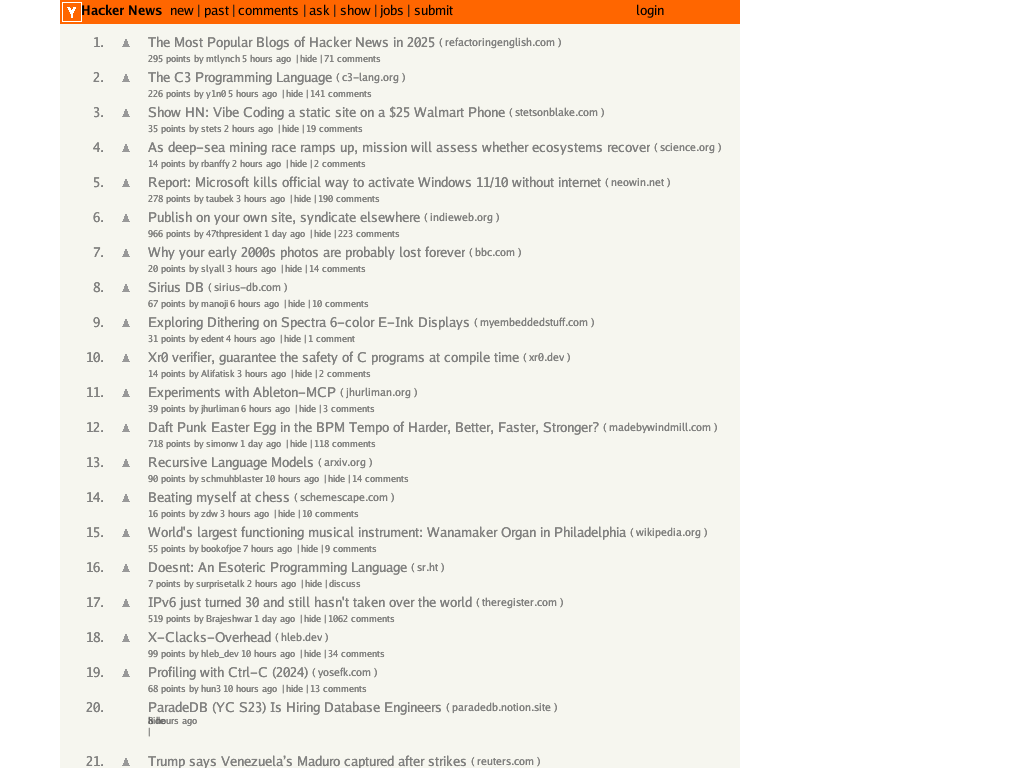
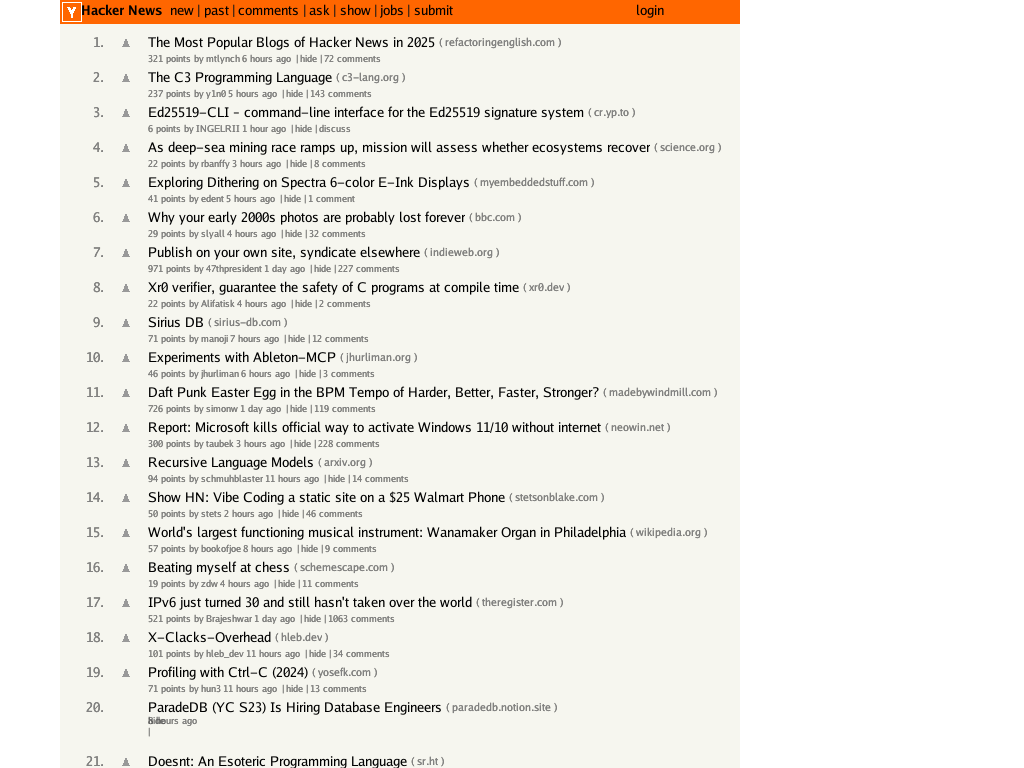
Merge main branch and regenerate HN screenshot with pseudo-class support

diff --git a/css/parser.go b/css/parser.go
@@ -26,9 +26,11 @@ type Selector struct {
 // SimpleSelector represents a simple selector.
 // CSS 2.1 §5.2 Selector syntax
 type SimpleSelector struct {
-	TagName string   // Element type selector (e.g., "div", "*" for universal)
-	ID      string   // ID selector (e.g., "header")
-	Classes []string // Class selectors (e.g., ["container", "main"])
+	TagName        string   // Element type selector (e.g., "div", "*" for universal)
+	ID             string   // ID selector (e.g., "header")
+	Classes        []string // Class selectors (e.g., ["container", "main"])
+	PseudoClasses  []string // Pseudo-classes (e.g., ["link", "hover"]) - tracked for specificity but not used for matching
+	PseudoElements []string // Pseudo-elements (e.g., ["before", "after"]) - tracked for specificity but not used for matching
 }
 
 // Declaration represents a CSS declaration.
@@ -232,7 +234,9 @@ func (p *Parser) parseSelector() *Selector {
 // CSS 2.1 §5.2 Selector syntax
 func (p *Parser) parseSimpleSelector() *SimpleSelector {
 	simple := &SimpleSelector{
-		Classes: make([]string, 0),
+		Classes:        make([]string, 0),
+		PseudoClasses:  make([]string, 0),
+		PseudoElements: make([]string, 0),
 	}
 
 	token := p.tokenizer.Peek()
@@ -271,24 +275,36 @@ func (p *Parser) parseSimpleSelector() *SimpleSelector {
 				}
 			}
 		} else if token.Type == ColonToken {
-			// Skip pseudo-classes and pseudo-elements (:hover, ::before, etc.)
+			// Handle pseudo-classes and pseudo-elements (:hover, ::before, etc.)
 			// CSS 2.1 §5.11 Pseudo-classes, §5.12 Pseudo-elements
-			// Note: We treat selectors with pseudo-classes the same as without them
-			// (e.g., "a:link" is treated as "a", "a:visited" is treated as "a")
+			// Note: We store pseudo-classes and pseudo-elements for specificity calculation but don't use them for matching
+			// (e.g., "a:link" is matched as "a", but specificity includes the pseudo-class)
 			// This provides partial support for styling links but not interactive states
-			log.Debug("CSS 2.1 §5.11-5.12: Pseudo-classes/pseudo-elements have partial support (stripping pseudo-class from selector)")
+			log.Debug("CSS 2.1 §5.11-5.12: Pseudo-classes/pseudo-elements have partial support (storing for specificity, stripping from matching)")
 			p.tokenizer.Next() // consume ':'
 			
 			// Check for double colon (pseudo-element ::before)
+			isPseudoElement := false
 			token = p.tokenizer.Peek()
 			if token.Type == ColonToken {
 				p.tokenizer.Next() // consume second ':'
+				isPseudoElement = true
 			}
 			
 			// Consume the pseudo-class/pseudo-element name
 			token = p.tokenizer.Peek()
 			if token.Type == IdentToken {
+				pseudoName := token.Value
 				p.tokenizer.Next() // consume identifier (e.g., "link", "hover", "before")
+				
+				// Store for specificity calculation
+				// CSS 2.1 §6.4.3: Pseudo-classes count as class selectors (specificity C)
+				// CSS 2.1 §6.4.3: Pseudo-elements count as element selectors (specificity D)
+				if isPseudoElement {
+					simple.PseudoElements = append(simple.PseudoElements, pseudoName)
+				} else {
+					simple.PseudoClasses = append(simple.PseudoClasses, pseudoName)
+				}
 			}
 			
 			// Handle functional pseudo-classes like :nth-child(2n+1)

diff --git a/style/style.go b/style/style.go
@@ -307,6 +307,32 @@ func matchesSimpleSelector(node *dom.Node, selector *css.SimpleSelector) bool {
 		}
 	}
 
+	// Check pseudo-classes for link state
+	// CSS 2.1 §5.11.2: :link and :visited pseudo-classes
+	// Since we don't track visited state, we treat all links as unvisited (:link)
+	// Therefore, selectors with :visited should not match any elements
+	if len(selector.PseudoClasses) > 0 {
+		hasLink := false
+		for _, pseudoClass := range selector.PseudoClasses {
+			if pseudoClass == "visited" {
+				// :visited pseudo-class - don't match (treat all links as unvisited)
+				return false
+			}
+			if pseudoClass == "link" {
+				hasLink = true
+			}
+			// Other pseudo-classes like :hover, :active, :focus are ignored
+			// (they're counted in specificity but don't affect matching)
+		}
+		
+		// If selector has :link, verify this is an <a> element with href
+		if hasLink {
+			if node.Data != "a" || node.GetAttribute("href") == "" {
+				return false
+			}
+		}
+	}
+
 	return true
 }
 
@@ -319,10 +345,14 @@ func calculateSpecificity(selector *css.Selector) Specificity {
 		if simple.ID != "" {
 			spec.B++
 		}
+		// CSS 2.1 §6.4.3: Class selectors and pseudo-classes count in specificity C
 		spec.C += len(simple.Classes)
+		spec.C += len(simple.PseudoClasses)
+		// CSS 2.1 §6.4.3: Element selectors and pseudo-elements count in specificity D
 		if simple.TagName != "" {
 			spec.D++
 		}
+		spec.D += len(simple.PseudoElements)
 	}
 
 	return spec

diff --git a/style/style_test.go b/style/style_test.go
@@ -150,6 +150,52 @@ func TestCalculateSpecificity(t *testing.T) {
 			},
 			expected: Specificity{A: 0, B: 0, C: 0, D: 2},
 		},
+		{
+			name: "pseudo-class selector (a:link)",
+			selector: &css.Selector{
+				Simple: []*css.SimpleSelector{
+					{TagName: "a", PseudoClasses: []string{"link"}},
+				},
+			},
+			expected: Specificity{A: 0, B: 0, C: 1, D: 1},
+		},
+		{
+			name: "class with pseudo-class (.comhead a:link)",
+			selector: &css.Selector{
+				Simple: []*css.SimpleSelector{
+					{Classes: []string{"comhead"}},
+					{TagName: "a", PseudoClasses: []string{"link"}},
+				},
+			},
+			expected: Specificity{A: 0, B: 0, C: 2, D: 1},
+		},
+		{
+			name: "multiple pseudo-classes",
+			selector: &css.Selector{
+				Simple: []*css.SimpleSelector{
+					{TagName: "a", PseudoClasses: []string{"link", "hover"}},
+				},
+			},
+			expected: Specificity{A: 0, B: 0, C: 2, D: 1},
+		},
+		{
+			name: "pseudo-element (::before)",
+			selector: &css.Selector{
+				Simple: []*css.SimpleSelector{
+					{TagName: "p", PseudoElements: []string{"before"}},
+				},
+			},
+			expected: Specificity{A: 0, B: 0, C: 0, D: 2},
+		},
+		{
+			name: "pseudo-class and pseudo-element",
+			selector: &css.Selector{
+				Simple: []*css.SimpleSelector{
+					{TagName: "a", PseudoClasses: []string{"hover"}, PseudoElements: []string{"after"}},
+				},
+			},
+			expected: Specificity{A: 0, B: 0, C: 1, D: 2},
+		},
 	}
 
 	for _, tt := range tests {
